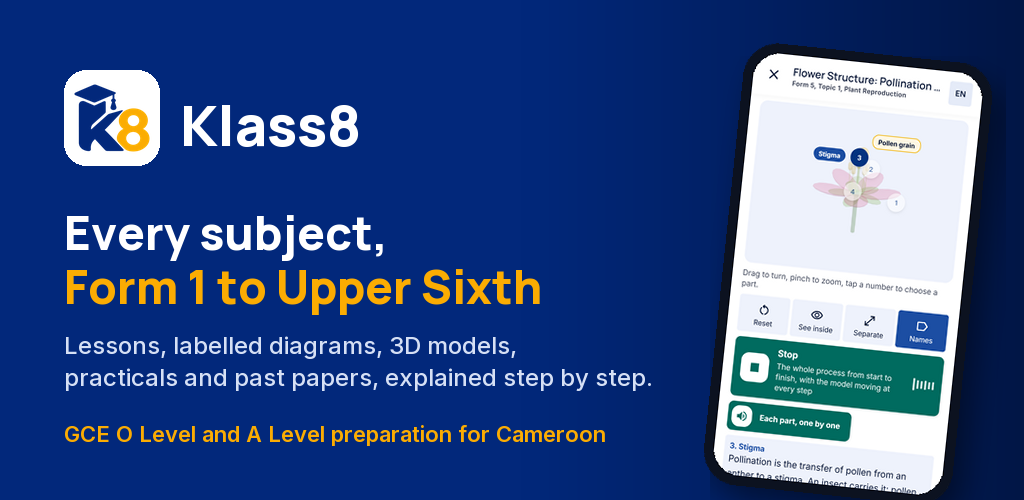
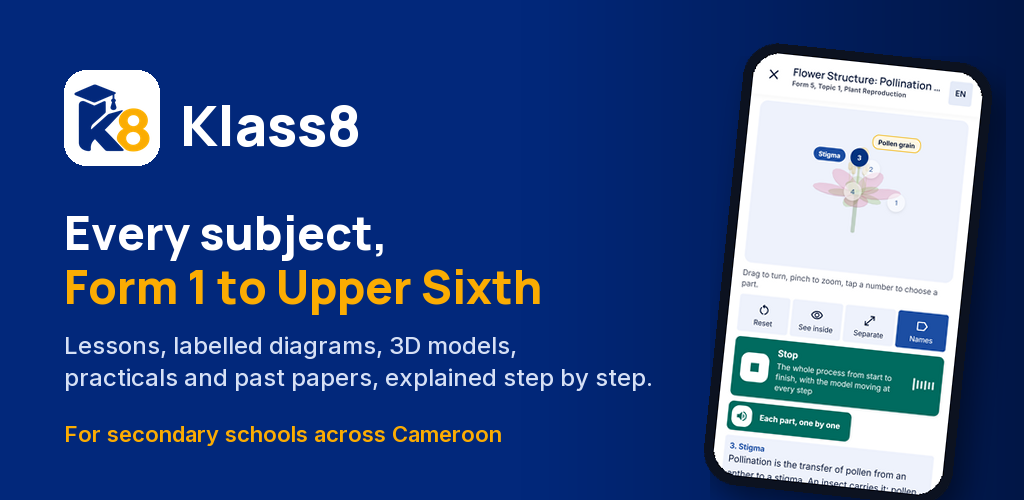
Play listing: app name Klass8: Learn, Practise, Excel (not GCE only)
Klass8 covers every class from Form 1, technical schools, parents and teachers,
so the store name and short descriptions no longer say GCE only; the banner's
last line says secondary schools across Cameroon.

Changed region(s): [[0.0625, 0.84, 0.5938, 0.9]]

diff --git a/store/play/LISTING.md b/store/play/LISTING.md
@@ -11,13 +11,13 @@ payments policy). Nothing below does.
 **App name** (max 30)
 
 ```
-Klass8: GCE Lessons & Revision
+Klass8: Learn, Practise, Excel
 ```
 
 **Short description** (max 80)
 
 ```
-Lessons, labelled diagrams, 3D models, practicals and past papers for the GCE.
+Lessons, diagrams, 3D models and past papers, Form 1 to Upper Sixth in Cameroon.
 ```
 
 **Full description** (max 4000)
@@ -66,13 +66,13 @@ Klass8 is made in Cameroon for Cameroonian students.
 **App name** (max 30)
 
 ```
-Klass8 : cours et révision GCE
+Klass8 : apprendre et réussir
 ```
 
 **Short description** (max 80)
 
 ```
-Cours, schémas légendés, modèles 3D, TP et épreuves pour le GCE.
+Leçons, schémas, modèles 3D et épreuves, de la Form 1 à l’Upper Sixth.
 ```
 
 **Full description** (max 4000)

diff --git a/store/play/GUIDE.md b/store/play/GUIDE.md
@@ -25,7 +25,7 @@ Play Console > **Create app**
 
 | Field | Choose |
 |---|---|
-| App name | `Klass8: GCE Lessons & Revision` |
+| App name | `Klass8: Learn, Practise, Excel` |
 | Default language | English (United Kingdom) – en-GB |
 | App or game | App |
 | Free or paid | Free |
